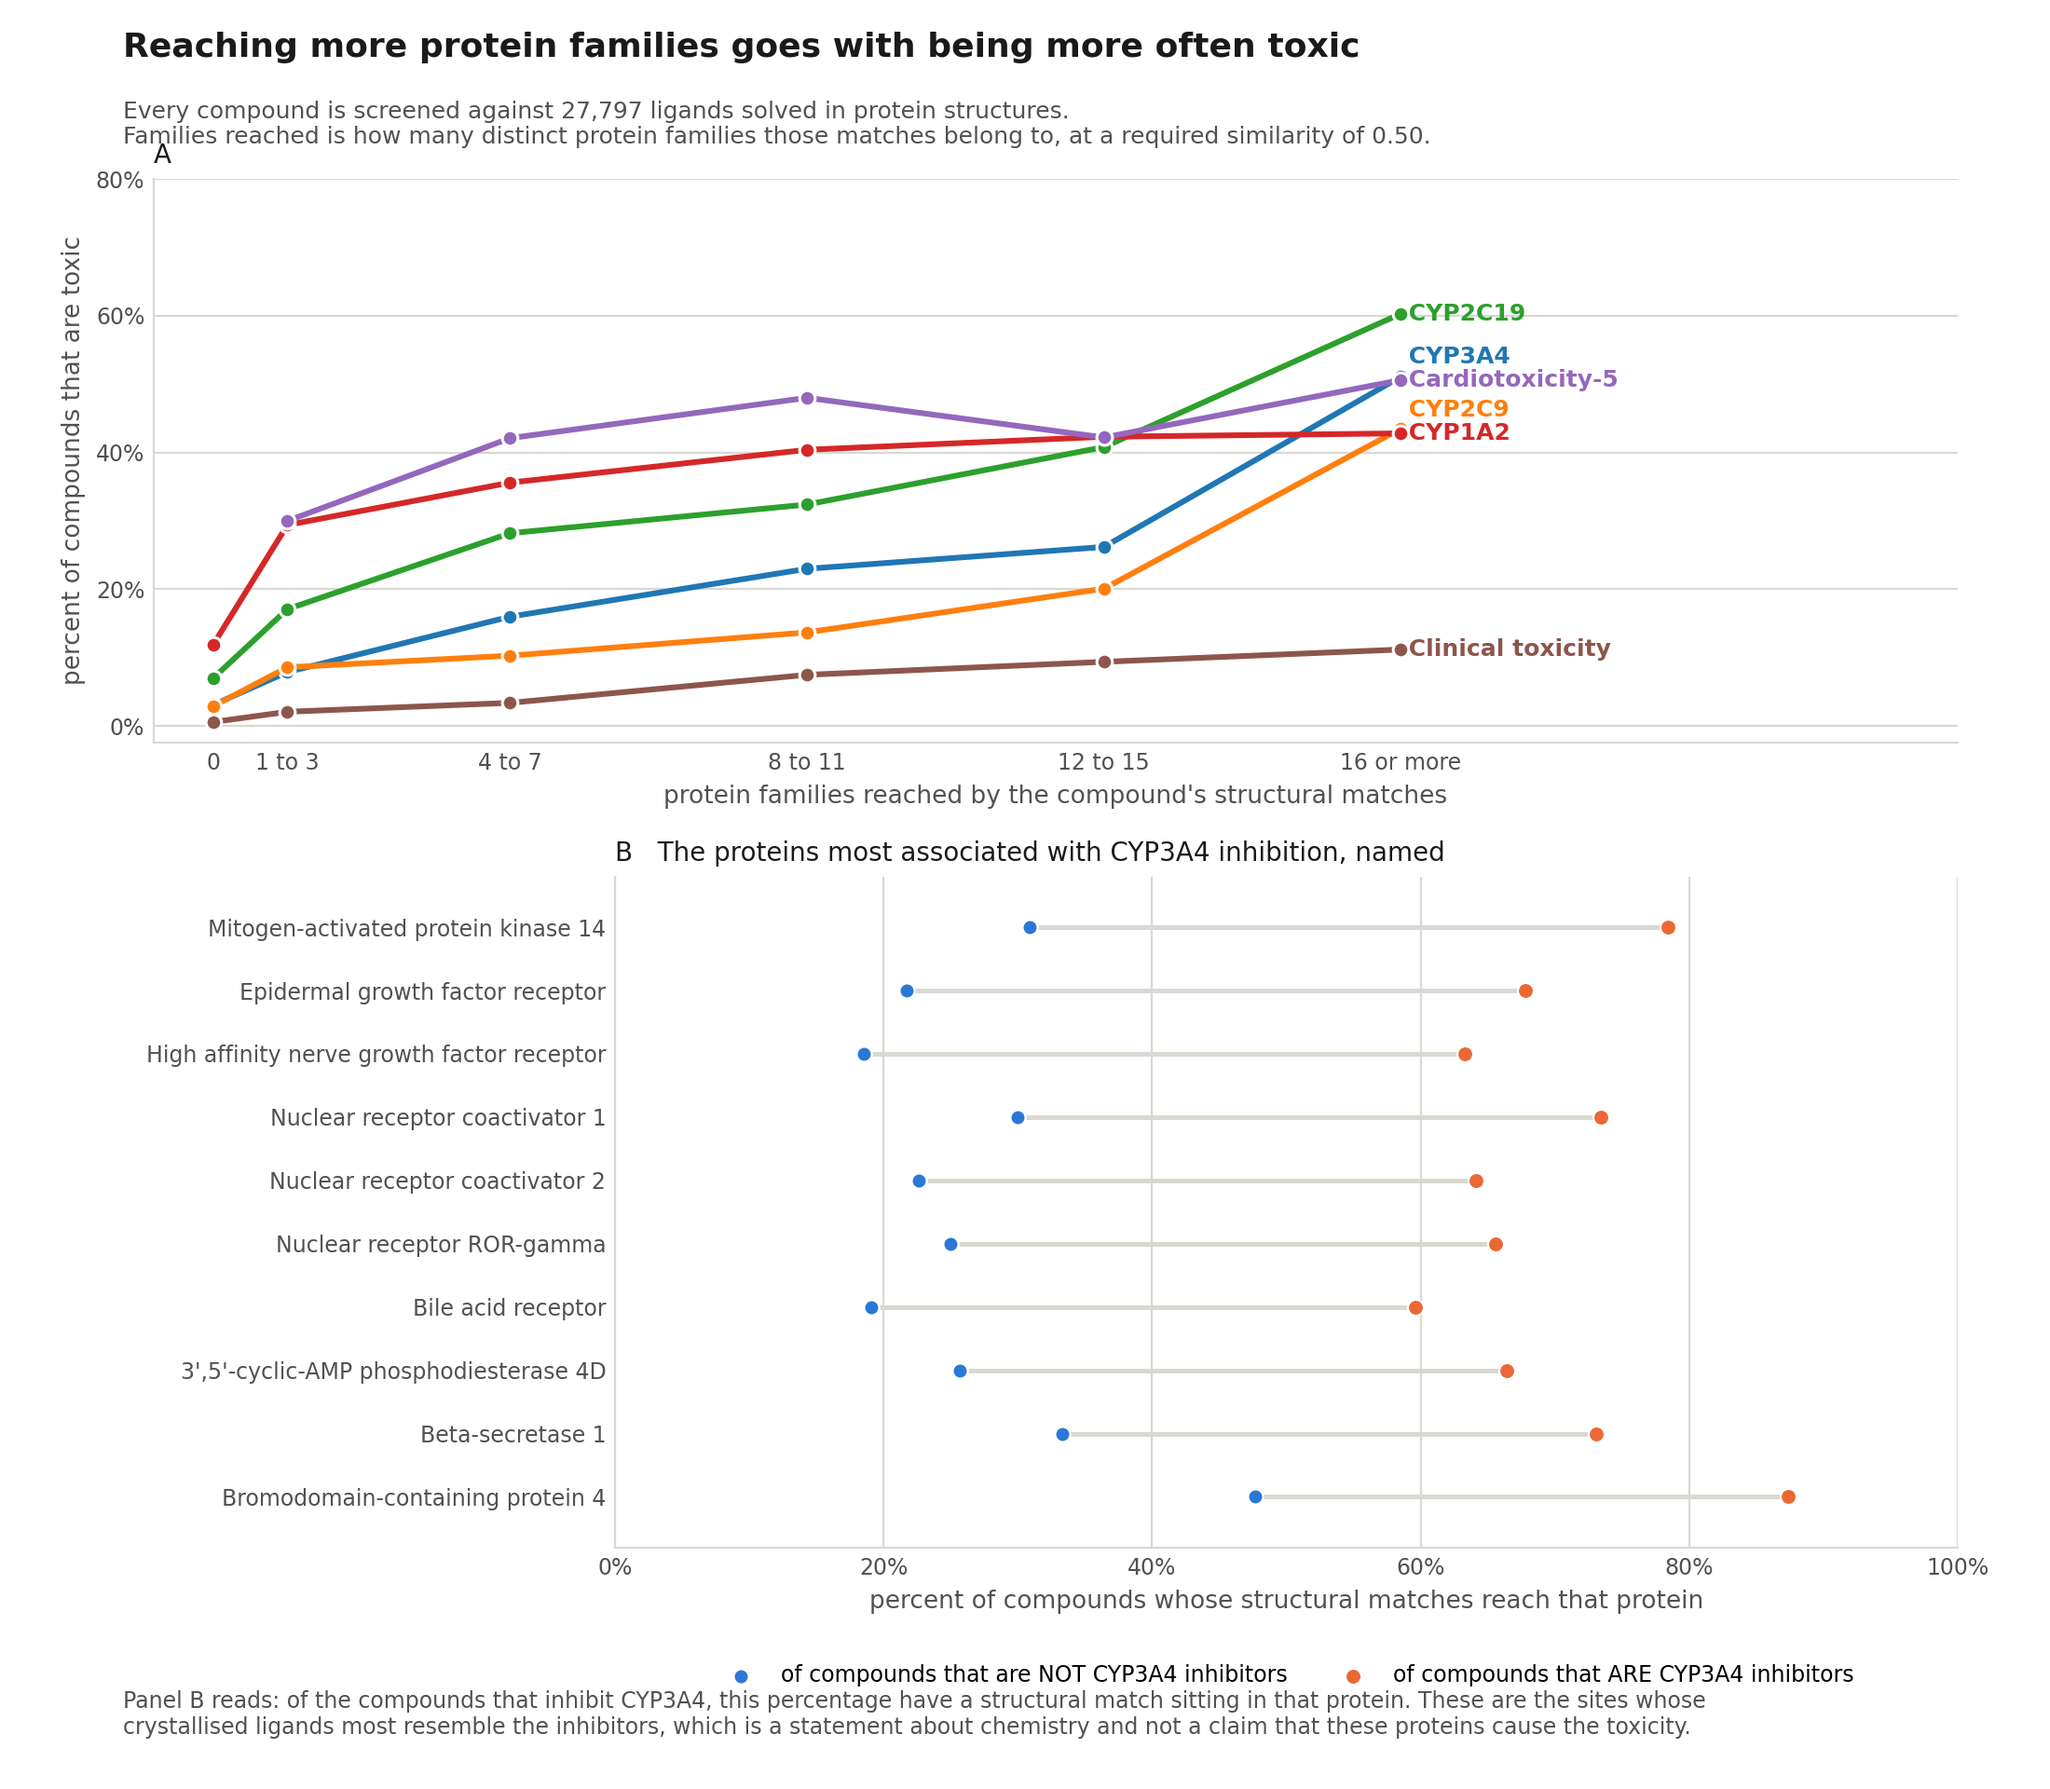
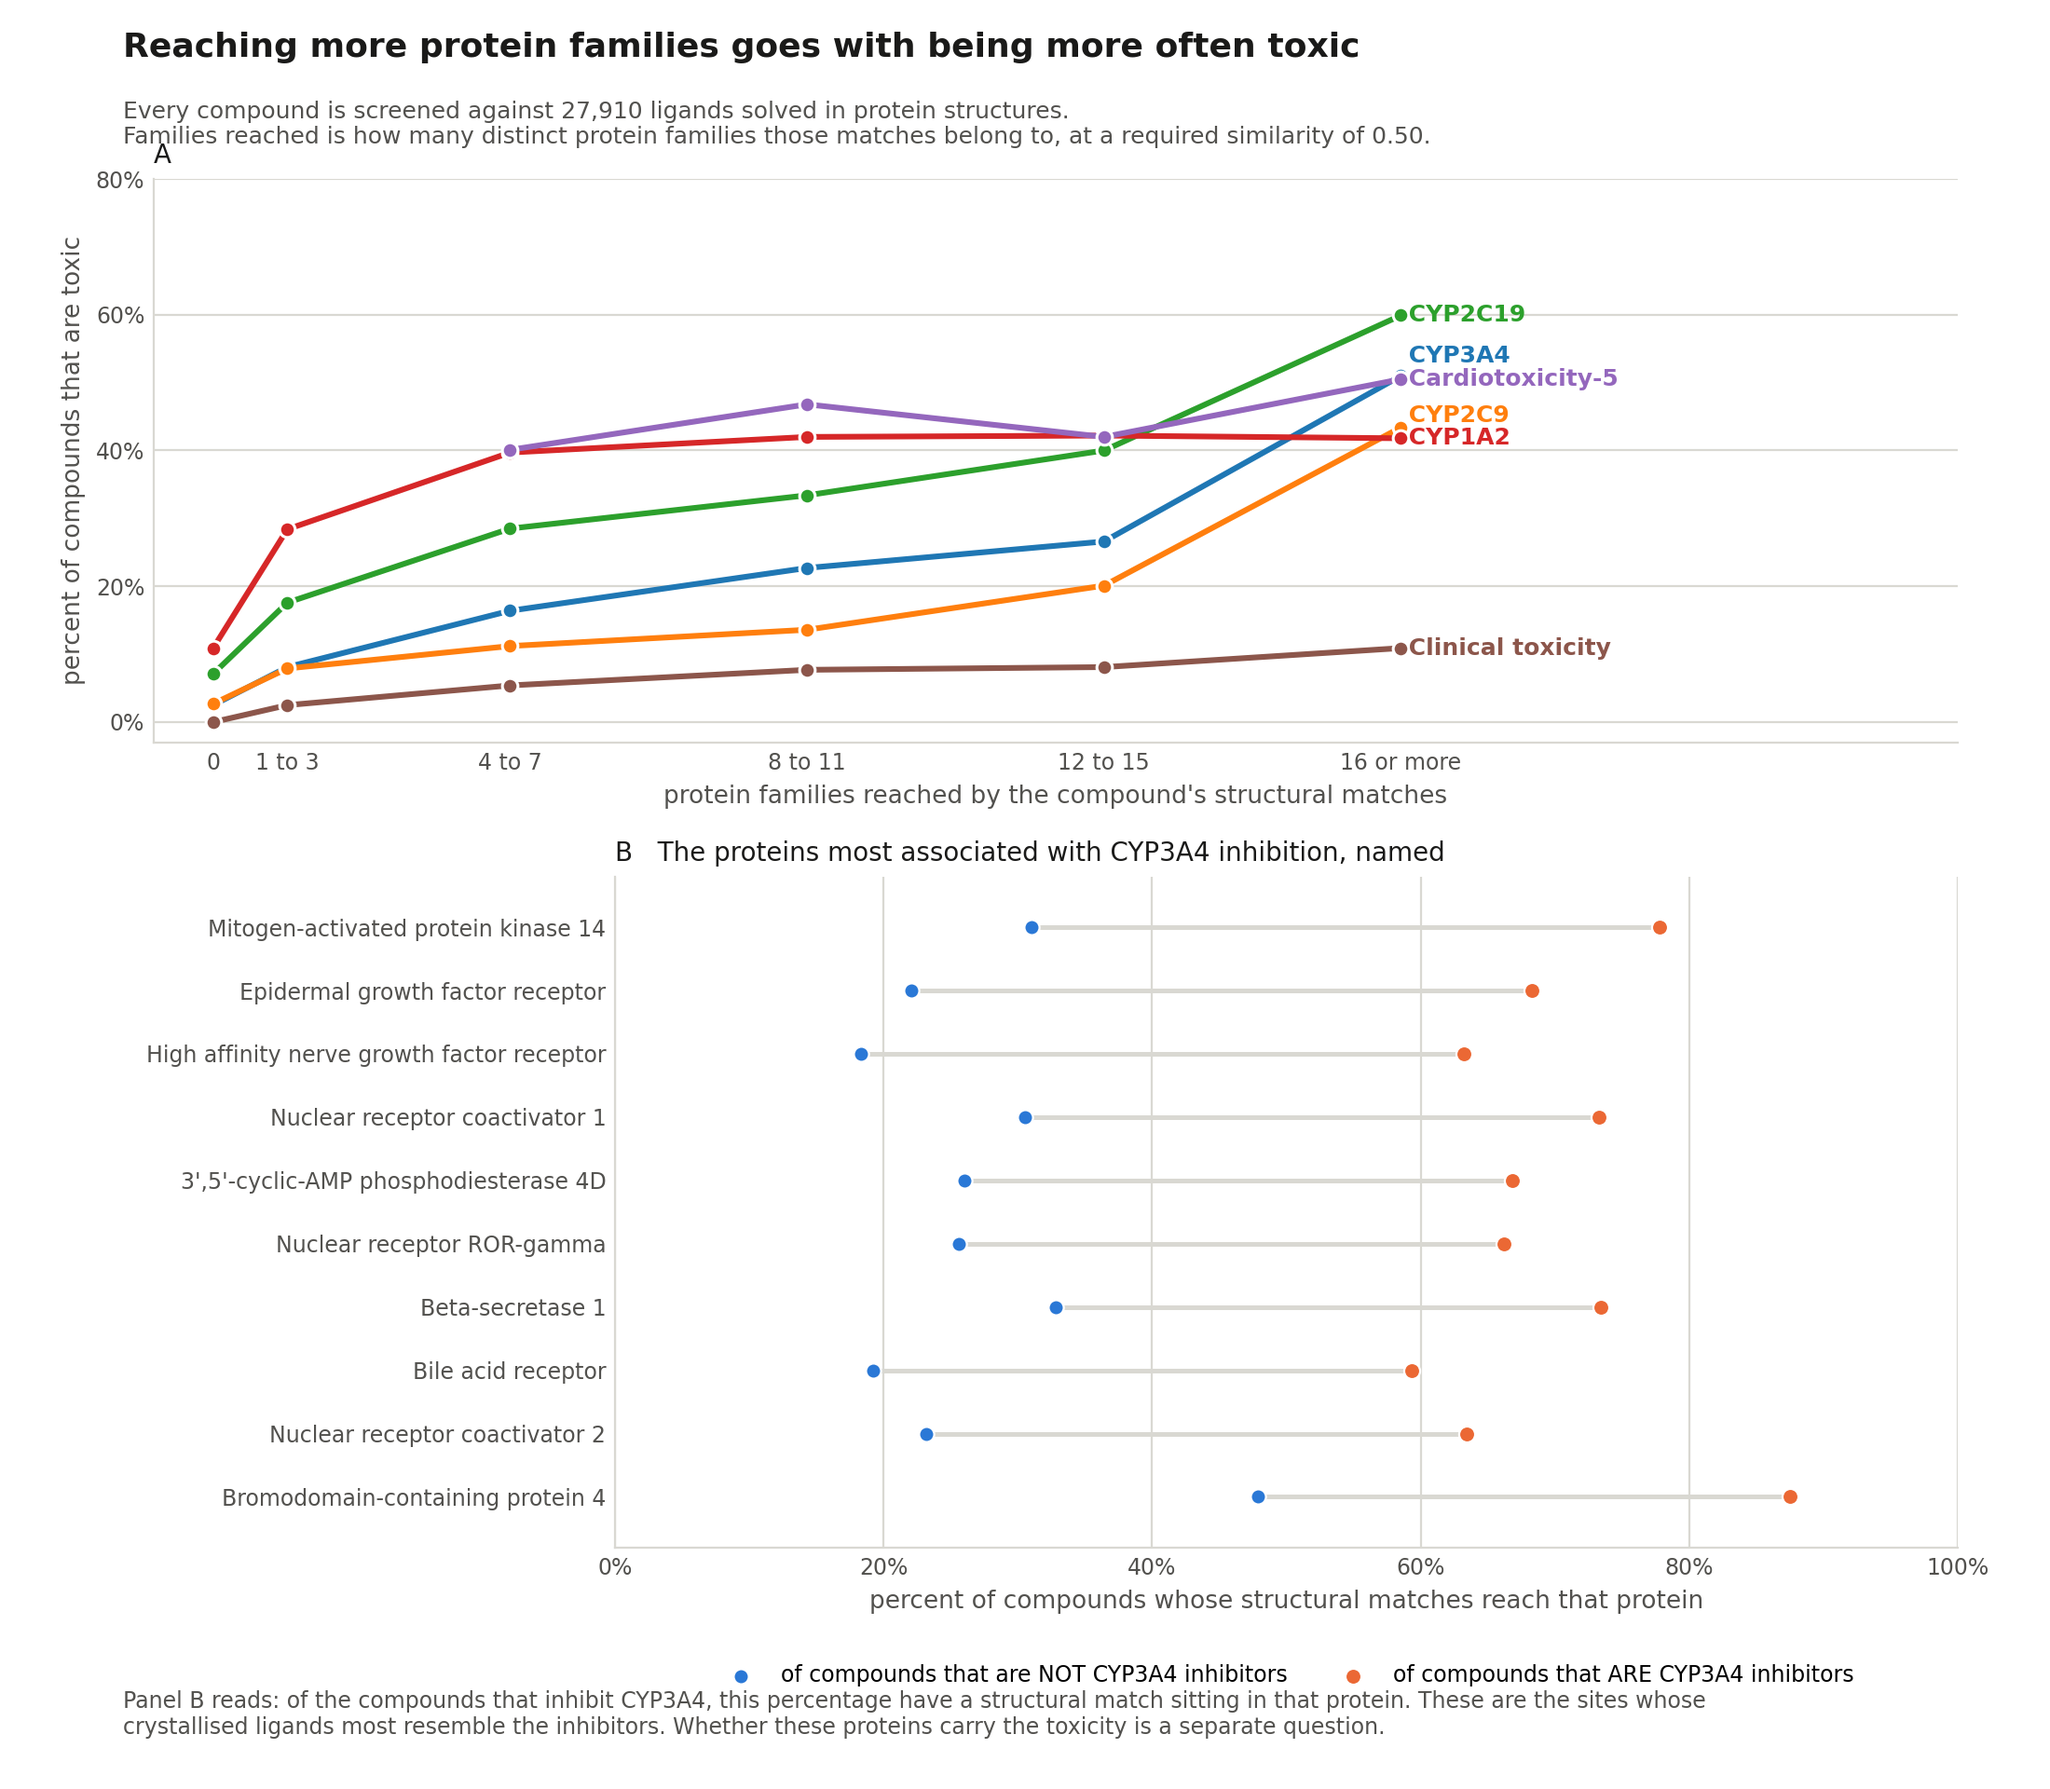
Report what it catches and what it lets through
The endpoint figure compared each endpoint's percent correct against the
accuracy of always answering the same way. That comparison was wrong twice
over. The two numbers were not measured on the same compounds, since accuracy
came from the fifth of compounds the method answers for while the comparison
came from all of them. And the ratio it compared against is a property of which
compounds were tested and reported, not of chemistry, so clearing it says
nothing about whether the method reads a molecule.

Panel B now gives two rates per endpoint: of the compounds measured toxic, the
share called toxic, and of those measured harmless, the share called harmless.
Neither moves with how lopsided the reported labels are. Endpoints are ordered
by the mean of the two.

Panel A's axis runs to zero. Starting it at 40% cut the share-answered curve off
at a required similarity of about 0.62, hiding that it keeps falling to 8.6% at
0.90 and never levels off, while the accuracy curve flattens after about 0.6.

Figures regenerated from the published checkpoint. The breadth figure's protein
panel is restricted to human targets; it is read as a statement about human
proteins and without the restriction a non-human target appeared in it.

diff --git a/README.md b/README.md
@@ -94,9 +94,28 @@ toxpred score --smiles "..." --endpoints "CYP450_CYP3A4" "Hepatotoxicity_Hepatot
 
 ![Twenty-eight endpoints](docs/endpoints.png)
 
-Two of them, the estrogen receptor assay and cardiotoxicity at 30 micromolar,
-are so imbalanced that inheriting labels cannot beat always answering the same
-way. They are shown that way rather than left out.
+**Panel A** is the same trade as above, one gray line per endpoint. Accuracy
+gains are mostly spent by a required similarity of about 0.6; the share of
+compounds answered for keeps falling to 8.6% at 0.90 and never levels off, so
+the axis runs to zero rather than cutting that curve off.
+
+**Panel B** gives two rates per endpoint at the strictest match that still
+answers one compound in five: of the compounds measured toxic, the share called
+toxic, and of those measured harmless, the share called harmless. Endpoints are
+ordered by the mean of the two.
+
+Those two rates are reported instead of a single percent correct on purpose.
+These labels are lopsided, 87 to 13 on CYP2D6, and that ratio reflects which
+compounds were tested and reported rather than anything about chemistry. A
+percent correct computed on such data mostly records the lopsidedness, and a
+method that answered the same way every time would score well on it. The catch
+and pass rates do not move with the ratio, so they say what the method does.
+
+Read together they show where it is weak and in which direction. On the estrogen
+receptor assay it calls 36.8% of measured actives active while correctly passing
+93.2% of inactives: conservative, missing actives rather than raising false
+alarms. Cardiotoxicity at 30 micromolar runs the other way, 83.9% of actives
+caught and 55.0% of inactives passed.
 
 ---
 
